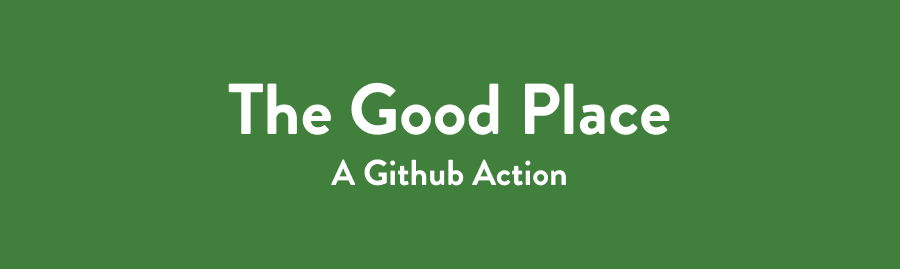
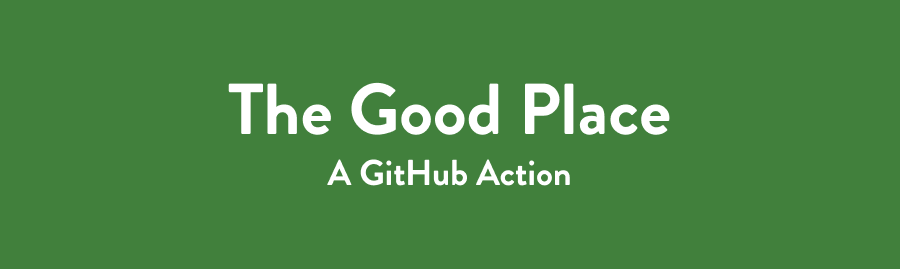
Change copy

Changed region(s): [[0.3422, 0.5948, 0.6533, 0.7138]]

diff --git a/README.md b/README.md
@@ -12,7 +12,7 @@
   </a>
 </p>
 
-> A Github Action that makes your repo a neighborhood in The Good Place
+> A GitHub Action that makes your repo a neighborhood in The Good Place
 
 ## 🍤 Features
 - Replaces curse words with approved words in The Good Place
